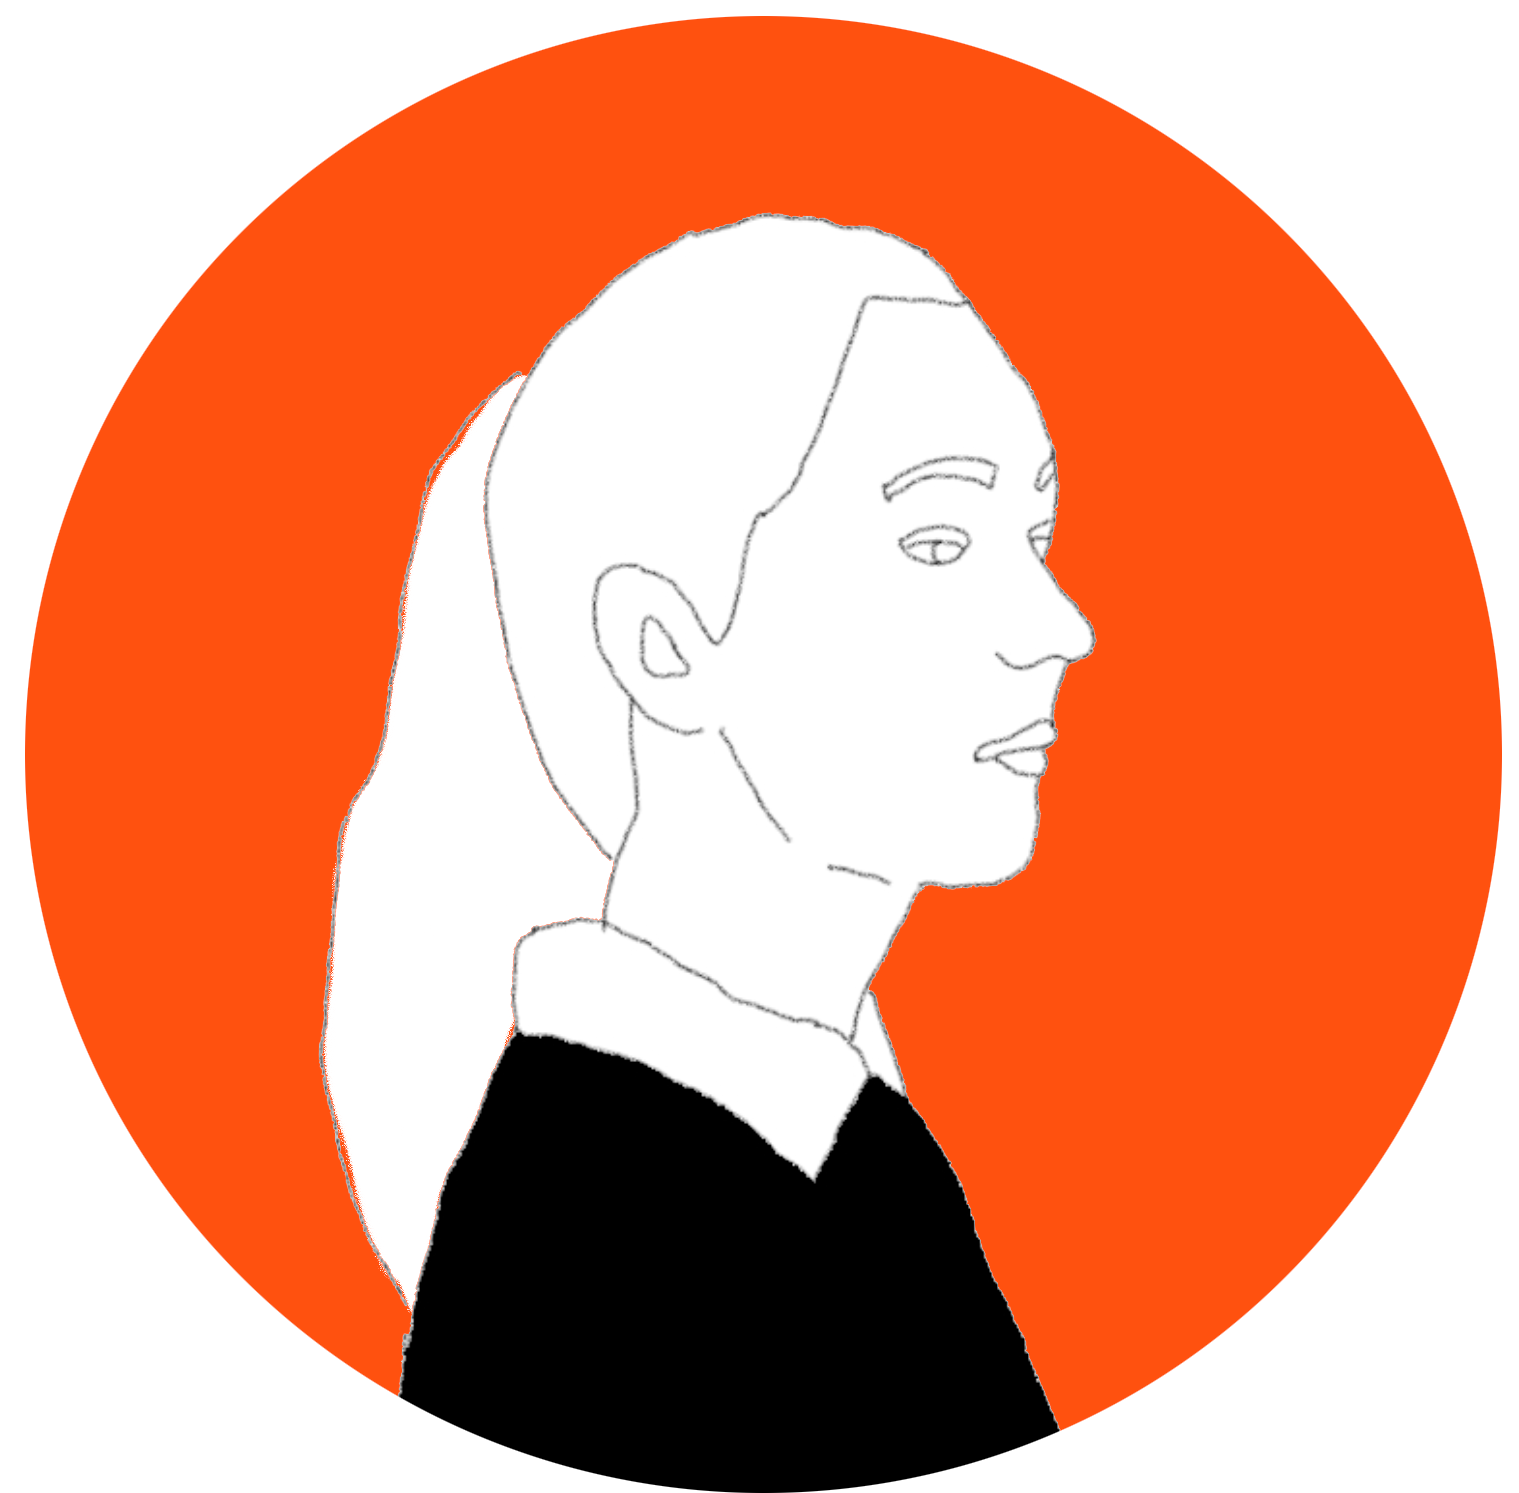
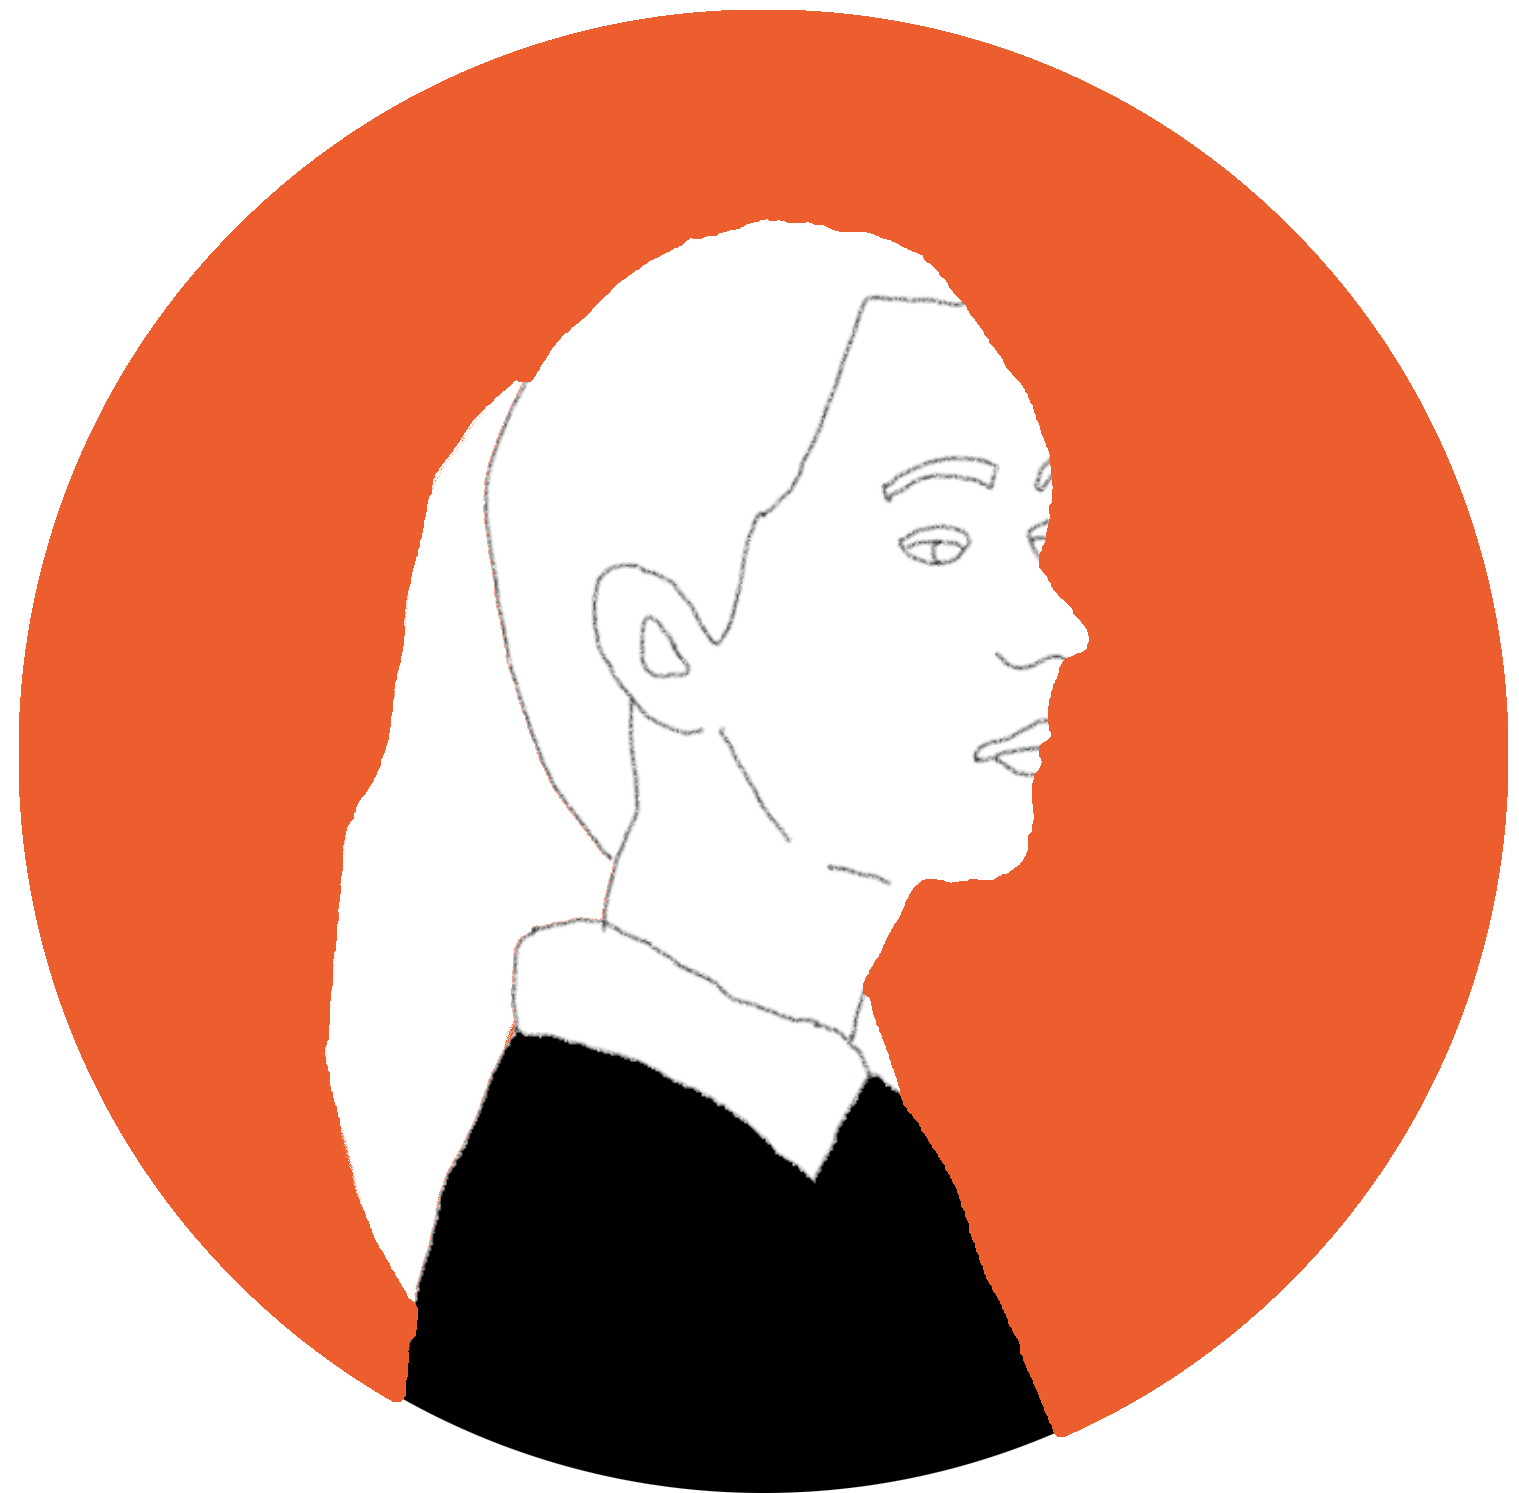
page updated

diff --git a/index.html b/index.html
@@ -31,9 +31,9 @@
     <section class="page-description">
         <div class="page-description-content pb0">
 
-            <div class="page-description-image"><img src="profile-2.png"></div>
+            <div class="page-description-image"><img src="profile-gray.png"></div>
 
-            <div class="page-description-text"><h3>Veidoju stāstus par<br> cilvēku un vietu identitātēm,<br> kas ir mums apkārt.</h3></div>
+            <div class="page-description-text"><h3>Veidoju animācijas un<br> ilustrāciju stāstus par cilvēku<br> un vietu identitātēm,<br> kas ir mums apkārt</h3></div>
 
         </div>
     </section>

diff --git a/creative.html b/creative.html
@@ -31,9 +31,9 @@
     <section class="page-description">
         <div class="page-description-content pb0">
 
-            <div class="page-description-image"><img src="profile-2.png"></div>
+            <div class="page-description-image"><img src="profile-ochra.png"></div>
 
-            <div class="page-description-text"><h3>Veidoju stāstus par<br> cilvēku un vietu identitātēm,<br> kas ir mums apkārt.</h3></div>
+            <div class="page-description-text"><h3>Radošie projekti man ir<br> vairāk saistīti ar mākslu<br> un pretrunīgām tēmām</h3></div>
 
         </div>
     </section>

diff --git a/video.html b/video.html
@@ -33,7 +33,7 @@
 
             <div class="page-description-image"><img src="profile-2.png"></div>
 
-            <div class="page-description-text"><h3>Veidoju stāstus par<br> cilvēku un vietu identitātēm,<br> kas ir mums apkārt.</h3></div>
+            <div class="page-description-text"><h3>Piedalos video stāstu veidošanā,<br> gan kā operatore, gan intervētāja, gan producente</h3></div>
 
         </div>
     </section>
